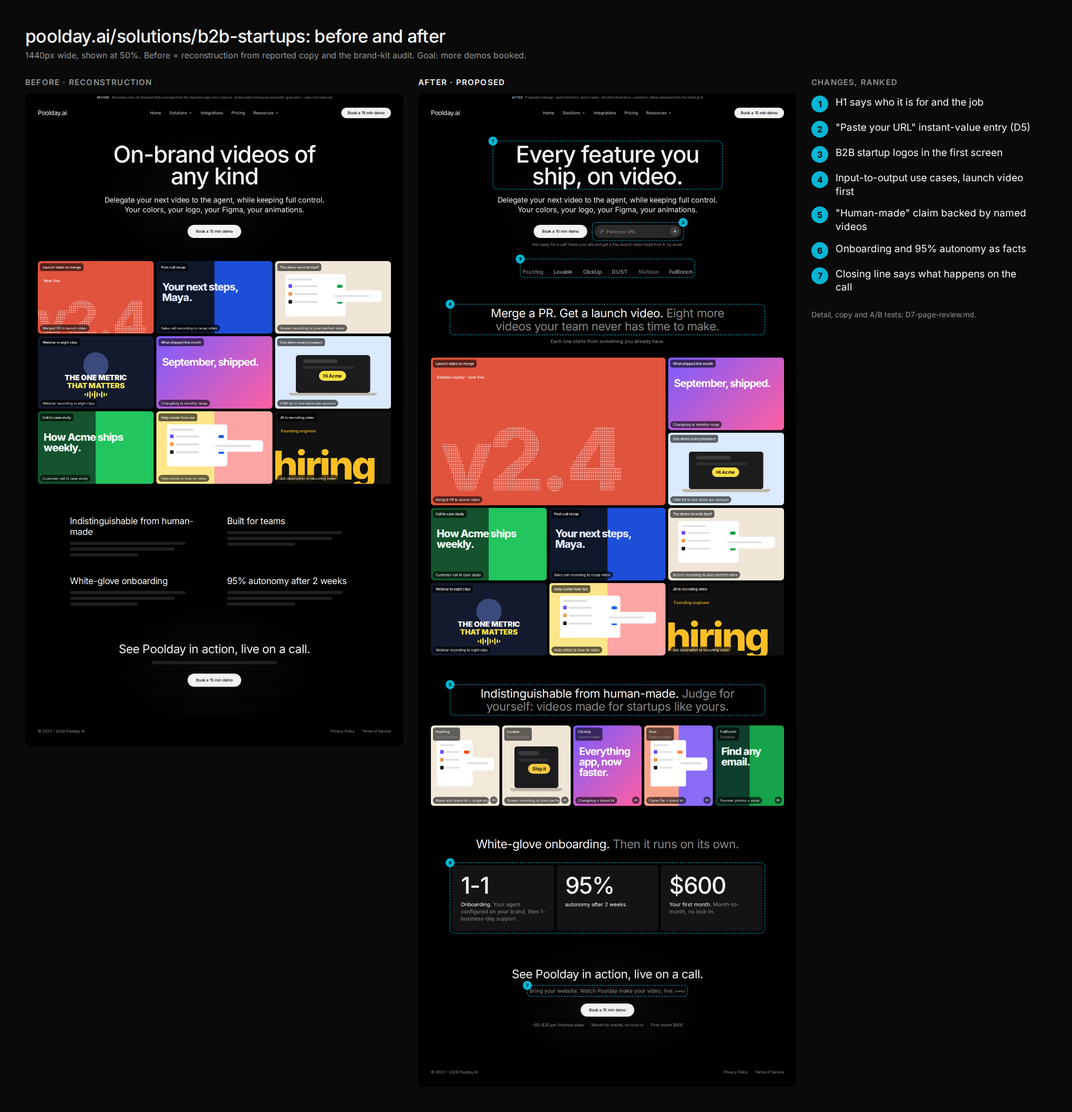
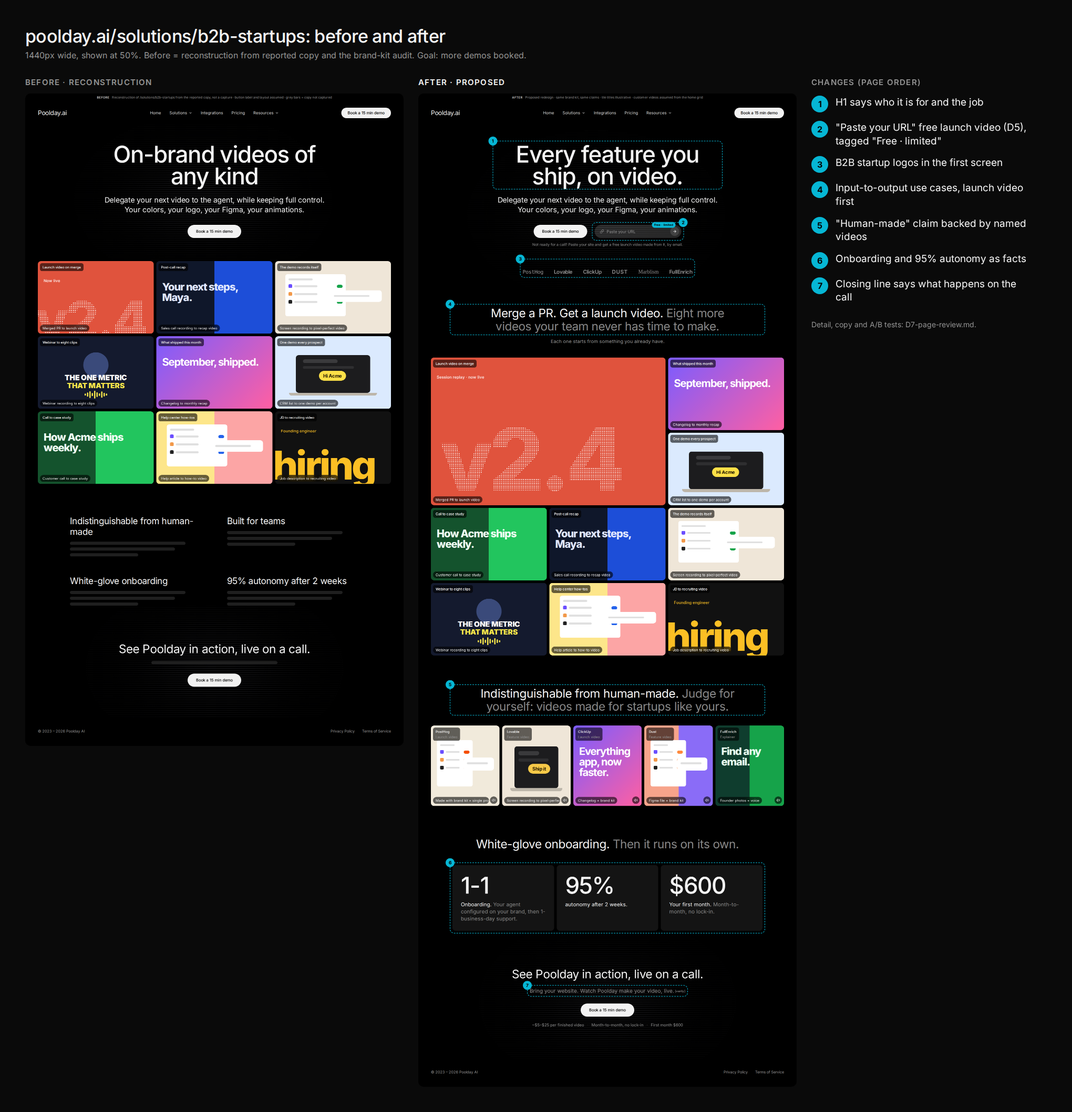
D7 v2: simpler pricing, cleaner home hero, free badge on b2b; log method
Claude-Session: https://claude.ai/code/session_014hQZTHyaVN7FtPgL5qa4Zv

Changed region(s): [[0.7412, 0.0935, 0.9574, 0.3118]]

diff --git a/deliverables/D7-pages/pages/pricing-after.html b/deliverables/D7-pages/pages/pricing-after.html
@@ -1,8 +1,8 @@
 <!doctype html><html lang="en"><head><meta charset="utf-8"><meta name="viewport" content="width=device-width, initial-scale=1"><title>Poolday pricing, after</title>
 <link rel="stylesheet" href="../../design/poolday-brand-kit/tokens.css"><link rel="stylesheet" href="../../design/poolday-brand-kit/components/bundle.css"><link rel="stylesheet" href="../src/d7.css"></head><body>
-<div class="d7-label"><b>After</b>Proposed redesign · same structure, prices and plan contents · [verify] = not confirmed from the live site</div><header class="pd-nav"><a class="pd-wordmark" href="#">Poolday.ai</a><nav class="pd-nav-links" aria-label="Main"><a class="pd-nav-link" href="#">Home</a><button class="pd-nav-link">Solutions<svg class="pd-icon" width="14" height="14" viewBox="0 0 24 24" fill="none" stroke="currentColor" stroke-width="2" stroke-linecap="round" stroke-linejoin="round" aria-hidden="true"><path d="m6 9 6 6 6-6"/></svg></button><a class="pd-nav-link" href="#">Integrations</a><a class="pd-nav-link" href="#">Pricing</a><button class="pd-nav-link">Resources<svg class="pd-icon" width="14" height="14" viewBox="0 0 24 24" fill="none" stroke="currentColor" stroke-width="2" stroke-linecap="round" stroke-linejoin="round" aria-hidden="true"><path d="m6 9 6 6 6-6"/></svg></button></nav><a class="pd-btn pd-btn-md" href="#">Book a 15 min demo</a></header><section class="pd-hero d7-hero" style="padding-bottom:64px"><canvas class="pd-halftone" data-cx="0.5" data-cy="0.3" data-rx="520"></canvas><div class="pd-hero-inner"><h1 class="pd-display">Simple pricing.</h1>
-<p class="pricing-lede" data-callout="1">Pay for finished videos, not seats. <span>~$5–$25 per finished video.</span><span class="verify">[verify]</span></p></div></section>
-<div class="plans">
+<div class="d7-label"><b>After</b>Proposed redesign · same structure, prices and plan contents · [verify] = not confirmed from the live site</div><header class="pd-nav"><a class="pd-wordmark" href="#">Poolday.ai</a><nav class="pd-nav-links" aria-label="Main"><a class="pd-nav-link" href="#">Home</a><button class="pd-nav-link">Solutions<svg class="pd-icon" width="14" height="14" viewBox="0 0 24 24" fill="none" stroke="currentColor" stroke-width="2" stroke-linecap="round" stroke-linejoin="round" aria-hidden="true"><path d="m6 9 6 6 6-6"/></svg></button><a class="pd-nav-link" href="#">Integrations</a><a class="pd-nav-link" href="#">Pricing</a><button class="pd-nav-link">Resources<svg class="pd-icon" width="14" height="14" viewBox="0 0 24 24" fill="none" stroke="currentColor" stroke-width="2" stroke-linecap="round" stroke-linejoin="round" aria-hidden="true"><path d="m6 9 6 6 6-6"/></svg></button></nav><a class="pd-btn pd-btn-md" href="#">Book a 15 min demo</a></header><section class="pd-hero d7-hero" style="padding-top:56px;padding-bottom:44px"><canvas class="pd-halftone" data-cx="0.5" data-cy="0.3" data-rx="520"></canvas><div class="pd-hero-inner"><h1 class="pd-display">Simple pricing.</h1>
+<p class="pricing-lede" style="margin-top:22px" data-callout="1">Pay for finished videos, not seats. <span>~$5–$25 per finished video.</span><span class="verify">[verify]</span></p></div></section>
+<div class="plans tight">
 <div class="plan"><h3>Business</h3><p class="persona-s" data-callout="3" data-side="right">For a startup team of 1–3 that ships every week.</p><div class="price">$1,250<small>/mo</small></div><p class="yield-s" data-callout="2" data-side="right">≈ 50–250 finished videos a month<span class="verify">[verify]</span></p><ul><li><svg class="pd-icon" width="16" height="16" viewBox="0 0 24 24" fill="none" stroke="currentColor" stroke-width="2" stroke-linecap="round" stroke-linejoin="round" aria-hidden="true"><path d="M20 6 9 17l-5-5"/></svg><span>$1,250 of credits</span></li><li><svg class="pd-icon" width="16" height="16" viewBox="0 0 24 24" fill="none" stroke="currentColor" stroke-width="2" stroke-linecap="round" stroke-linejoin="round" aria-hidden="true"><path d="M20 6 9 17l-5-5"/></svg><span>1-1 onboarding</span></li><li><svg class="pd-icon" width="16" height="16" viewBox="0 0 24 24" fill="none" stroke="currentColor" stroke-width="2" stroke-linecap="round" stroke-linejoin="round" aria-hidden="true"><path d="M20 6 9 17l-5-5"/></svg><span>1-business-day support</span></li><li><svg class="pd-icon" width="16" height="16" viewBox="0 0 24 24" fill="none" stroke="currentColor" stroke-width="2" stroke-linecap="round" stroke-linejoin="round" aria-hidden="true"><path d="M20 6 9 17l-5-5"/></svg><span>Extra credits at 2× the included rate</span></li></ul><p class="first" data-callout="4" data-side="right">First month $600 <span class="pilot-s">· a pilot, no lock-in</span></p><p class="cfg">Book a call to get your agent configured</p><a class="pd-btn pd-btn-lg" href="#">Book a 15 min demo</a></div>
 <div class="plan"><h3>Enterprise</h3><p class="persona-s">For teams that need SSO, an MSA and API access.</p><div class="price"><span class="from">from</span>$2,500<small>/mo</small></div><p class="yield-s">≈ 100–500+ finished videos a month<span class="verify">[verify]</span></p><ul><li class="li-head">Everything in Business, plus</li><li><svg class="pd-icon" width="16" height="16" viewBox="0 0 24 24" fill="none" stroke="currentColor" stroke-width="2" stroke-linecap="round" stroke-linejoin="round" aria-hidden="true"><path d="M20 6 9 17l-5-5"/></svg><span>SSO</span></li><li><svg class="pd-icon" width="16" height="16" viewBox="0 0 24 24" fill="none" stroke="currentColor" stroke-width="2" stroke-linecap="round" stroke-linejoin="round" aria-hidden="true"><path d="M20 6 9 17l-5-5"/></svg><span>MSA</span></li><li><svg class="pd-icon" width="16" height="16" viewBox="0 0 24 24" fill="none" stroke="currentColor" stroke-width="2" stroke-linecap="round" stroke-linejoin="round" aria-hidden="true"><path d="M20 6 9 17l-5-5"/></svg><span>A private Slack</span></li><li><svg class="pd-icon" width="16" height="16" viewBox="0 0 24 24" fill="none" stroke="currentColor" stroke-width="2" stroke-linecap="round" stroke-linejoin="round" aria-hidden="true"><path d="M20 6 9 17l-5-5"/></svg><span>API access</span></li><li><svg class="pd-icon" width="16" height="16" viewBox="0 0 24 24" fill="none" stroke="currentColor" stroke-width="2" stroke-linecap="round" stroke-linejoin="round" aria-hidden="true"><path d="M20 6 9 17l-5-5"/></svg><span>Unlimited users</span></li></ul><p class="first">First month $600 <span class="pilot-s">· a pilot, no lock-in</span></p><p class="cfg">Book a call to get your agent configured</p><a class="pd-btn pd-btn-lg" href="#">Book a 15 min demo</a></div>
 </div>

diff --git a/deliverables/D7-pages/src/render.js b/deliverables/D7-pages/src/render.js
@@ -12,7 +12,7 @@ fs.mkdirSync(R, { recursive: true }); fs.mkdirSync(CMP, { recursive: true });
 
 const LEGEND = {
   home: ['"Watch a 2-min build" for visitors not ready to call', 'A demo CTA right after the proof grid', '"Superintelligence" defined in one line', 'Customers and investors split', 'What happens in the 15 minutes'],
-  b2b: ['H1 says who it is for and the job', '"Paste your URL" instant-value entry (D5)', 'B2B startup logos in the first screen', 'Input-to-output use cases, launch video first', '"Human-made" claim backed by named videos', 'Onboarding and 95% autonomy as facts', 'Closing line says what happens on the call'],
+  b2b: ['H1 says who it is for and the job', '"Paste your URL" free launch video (D5), tagged "Free · limited"', 'B2B startup logos in the first screen', 'Input-to-output use cases, launch video first', '"Human-made" claim backed by named videos', 'Onboarding and 95% autonomy as facts', 'Closing line says what happens on the call'],
   pricing: ['One-line lede: price per finished video', 'Credits translated into videos per month', 'A persona caption per plan', 'The $600 first month framed as a pilot, no lock-in', 'Customer logos under the plans', 'Short comparison vs agency, freelancer, in-house', 'One-line procurement note', 'Four-question FAQ'],
 };
 const TITLE = { home: 'poolday.ai — Home', b2b: 'poolday.ai/solutions/b2b-startups', pricing: 'poolday.ai/pricing' };
@@ -52,7 +52,7 @@ h1{margin:0 0 6px;font-size:34px;font-weight:500;letter-spacing:-.02em}.sub{colo
 <h1>${TITLE[p]}: before and after${mode === 'fold' ? ' (above the fold)' : ''}</h1><div class="sub">1440px wide, shown at 50%. Before = reconstruction from reported copy and the brand-kit audit. Goal: more demos booked.</div>
 <div class="row"><div class="col"><h2>Before · reconstruction</h2><img src="file://${R}/${p}-before${suf}.png"></div>
 <div class="col after"><h2>After · proposed</h2><img src="file://${R}/${p}-after-annotated${suf}.png"></div>
-<div class="leg"><h2>Changes, ranked</h2>${LEGEND[p].map((t, i) => `<div class="it"><span class="n">${i + 1}</span><span>${t}</span></div>`).join('')}<p class="note">Detail, copy and A/B tests: D7-page-review.md.</p></div></div></body></html>`;
+<div class="leg"><h2>Changes (page order)</h2>${LEGEND[p].map((t, i) => `<div class="it"><span class="n">${i + 1}</span><span>${t}</span></div>`).join('')}<p class="note">Detail, copy and A/B tests: D7-page-review.md.</p></div></div></body></html>`;
       const f = path.join(CMP, `.${p}${suf}.html`);
       fs.writeFileSync(f, html);
       const cp = await ctx.newPage();

diff --git a/deliverables/D7-pages/src/build.js b/deliverables/D7-pages/src/build.js
@@ -195,9 +195,9 @@ function pricingBefore() {
 function pricingAfter() {
   const C = (cells, cls = '') => cells.map((c, i) => `<div class="${i === 0 ? 'rh' : ''}${i === 1 ? ' pd' : ''} ${cls}">${c}</div>`).join('');
   return head('Poolday pricing, after', 'Proposed redesign · same structure, prices and plan contents · [verify] = not confirmed from the live site', 'After') + nav() +
-    `<section class="pd-hero d7-hero" style="padding-bottom:64px"><canvas class="pd-halftone" data-cx="0.5" data-cy="0.3" data-rx="520"></canvas><div class="pd-hero-inner"><h1 class="pd-display">Simple pricing.</h1>
-<p class="pricing-lede"${co(1)}>Pay for finished videos, not seats. <span>~$5–$25 per finished video.</span>${V}</p></div></section>
-<div class="plans">
+    `<section class="pd-hero d7-hero" style="padding-top:56px;padding-bottom:44px"><canvas class="pd-halftone" data-cx="0.5" data-cy="0.3" data-rx="520"></canvas><div class="pd-hero-inner"><h1 class="pd-display">Simple pricing.</h1>
+<p class="pricing-lede" style="margin-top:22px"${co(1)}>Pay for finished videos, not seats. <span>~$5–$25 per finished video.</span>${V}</p></div></section>
+<div class="plans tight">
 <div class="plan"><h3>Business</h3><p class="persona-s"${co(3, 'right')}>For a startup team of 1–3 that ships every week.</p><div class="price">$1,250<small>/mo</small></div><p class="yield-s"${co(2, 'right')}>≈ 50–250 finished videos a month${V}</p><ul>${li('$1,250 of credits')}${li('1-1 onboarding')}${li('1-business-day support')}${li('Extra credits at 2× the included rate')}</ul><p class="first"${co(4, 'right')}>First month $600 <span class="pilot-s">· a pilot, no lock-in</span></p><p class="cfg">Book a call to get your agent configured</p><a class="pd-btn pd-btn-lg" href="#">Book a 15 min demo</a></div>
 <div class="plan"><h3>Enterprise</h3><p class="persona-s">For teams that need SSO, an MSA and API access.</p><div class="price"><span class="from">from</span>$2,500<small>/mo</small></div><p class="yield-s">≈ 100–500+ finished videos a month${V}</p><ul><li class="li-head">Everything in Business, plus</li>${li('SSO')}${li('MSA')}${li('A private Slack')}${li('API access')}${li('Unlimited users')}</ul><p class="first">First month $600 <span class="pilot-s">· a pilot, no lock-in</span></p><p class="cfg">Book a call to get your agent configured</p><a class="pd-btn pd-btn-lg" href="#">Book a 15 min demo</a></div>
 </div>

diff --git a/deliverables/D7-pages/src/d7.css b/deliverables/D7-pages/src/d7.css
@@ -164,8 +164,6 @@ a { color: inherit; }
 .pd-glass-chip.snd { flex: none; width: 28px; height: 28px; padding: 0; justify-content: center; }
 
 /* v2 revisions */
-.pd-hero.d7-hero .d7-hero-gap { height: 0; }
-.d7-hero .pd-hero-inner > .pd-btn + .pd-section-title, .d7-hero .cta-row + .pd-section-title { margin-top: 64px; }
 .pricing-lede { margin-top: 28px; font-size: 22px; line-height: 1.3; letter-spacing: -0.01em; color: var(--ink); }
 .pricing-lede span { color: var(--ink-quiet); }
 .plan .persona-s { margin-top: 6px; font-size: 14px; line-height: 1.4; color: var(--ink-muted); }
@@ -175,3 +173,9 @@ a { color: inherit; }
 .proc-line b { font-weight: 500; color: var(--ink); }
 .url-field { position: relative; }
 .url-field .badge { position: absolute; top: -11px; right: 22px; padding: 3px 9px; border-radius: var(--radius-pill); background: var(--brand-cyan); color: var(--on-brand-cyan); font-size: 11px; line-height: 16px; font-weight: 600; letter-spacing: 0.01em; }
+.plans.tight .plan { padding: 30px 36px; }
+.plans.tight .plan .price { margin-top: 20px; }
+.plans.tight .plan ul { margin-top: 20px; gap: 9px; }
+.plans.tight .plan .first { margin-top: 22px; }
+.plans.tight .plan .pd-btn { margin-top: 20px; }
+.proc-line { text-wrap: balance; }

diff --git a/deliverables/D7-pages/D7-page-review.md b/deliverables/D7-pages/D7-page-review.md
@@ -2,33 +2,35 @@
 
 poolday.ai was blocked from the build environment, so each BEFORE is a **reconstruction** from the brand kit's audit, the page text and the reported copy. It is not a capture. Grey bars stand for copy we didn't capture, and tile titles are illustrative. Every AFTER keeps Poolday's facts word for word. A **[verify]** tag marks anything we couldn't confirm.
 
-Visuals: `compare/<page>-compare.png` (full page) and `compare/<page>-compare-fold.png` (first screen). Numbered callouts on the AFTER match the numbers below. Changes are ranked by impact on demos booked × effort. **Primary metric for every test: demo bookings per unique visitor** (completed calendar bookings, not clicks).
+Visuals: `compare/<page>-compare.png` (full page) and `compare/<page>-compare-fold.png` (first screen). Numbered callouts on the AFTER match the # column below (callouts follow page order; table rows are by impact on demos booked × effort). **Primary metric for every test: demo bookings per unique visitor** (completed calendar bookings, not clicks).
 
-## Pricing (highest intent, biggest gap)
+## Pricing (highest intent)
+
+Principle (after user review): keep the original's simplicity. The first screen is still H1 + two plan cards side by side; every addition is one line. Heavier material sits below the fold.
 
 | # | Problem → change (exact copy) | Why it books more demos | A/B test (guardrail) |
 |---|---|---|---|
-| 2 | "Your first month at $600" is a line of small print. → A named band above the plans: **"Start with the $600 pilot month. Month-to-month, no lock-in."** with four items: *Your agent, configured · 1-1 onboarding · Credits included [verify] · Then decide: stay on Business or Enterprise, or stop.* | The risk is lowered before the list price is seen. The call becomes "set up my pilot", not "hear a pitch". | Band vs no band. Guardrail: pilot → paid conversion at day 45 (the band must not attract low-intent pilots). |
-| 3 | "$1,250 of credits" means nothing to a buyer. → **"$1,250 of credits ≈ 50–250 finished videos a month"**. Enterprise: **"≈ 100–500+ finished videos a month"**. | This answers the first question on every call ("how much video do I get?"), so the buyer arrives ready to book, not ready to email. | Videos line on vs off. Guardrail: share of sales calls where scope is disputed. Range = $1,250 ÷ ~$5–$25 per video [verify the per-video figure and that Enterprise credits equal the price]. |
-| 1 | The H1 "Simple pricing" has nothing under it. → **"Simple pricing."** + lede **"Pay for finished videos, not seats. ~$5–$25 per finished video."** | It sets the unit (per video) before the $1,250 anchor, so the price reads cheap per output. | Lede vs none. Guardrail: bounce rate on /pricing. |
-| 6 | No reference point, so $1,250 gets compared with a $30 SaaS seat. → **"Poolday vs the usual options. Priced per finished video, not per hour."** Columns: Poolday / Agency / Freelancer / In-house editor. Rows: how you pay, commitment, your brand, volume, changes. The Poolday cells reuse site lines ("One prompt, infinite outputs", "Point to edit. Only that changes."). | It moves the anchor from software to production spend, where $1,250 a month is small. | Table vs none. Guardrail: scroll depth to the plans (the table sits below them). The competitor cells are qualitative on purpose. Add costs only if sourced. |
-| 4 | Both plans read alike. → Persona lines: **"For a startup marketing team of 1–3 that ships every week."** / **"For teams that need SSO, an MSA, API access and more seats."** | Visitors pick themselves into a plan and book, instead of stalling on the choice. | On vs off. Guardrail: Enterprise share of bookings (must not drop). |
-| 5 | "Extra credits at 2× the included rate" reads like a penalty. → **"Need more in a busy month? Top up anytime. Extra credits cost 2× the included rate, so if you top up often, the next plan is cheaper."** | It is honest and turns the fear of a surprise bill into a reason to size up. | Copy swap. Guardrail: support tickets about billing. |
-| 7 | Nothing for procurement. → **"Ready for procurement. On Enterprise."** SSO · MSA · Private Slack · API access · Unlimited users, plus "Security documentation and data handling: available on request [verify]". | This unblocks the larger accounts that otherwise stop before booking. | Strip on vs off. Guardrail: Enterprise bookings. Publish no security claim until it is confirmed. |
-| 8, 9 | No logos and no FAQ on the page. → A **"Teams on Poolday"** logo row under the plans, plus six FAQs: credit, the $600 month, running out, cancelling, needing a designer, rights to the videos [verify]. | Proof and objection handling sit where the decision is made. | Test together as one "proof pack". Guardrail: CTA click → booking completion. |
+| 2 | "$1,250 of credits" means nothing to a buyer. → One line under each price: **"≈ 50–250 finished videos a month"** / **"≈ 100–500+ finished videos a month"** [verify]. | Answers "how much video do I get?" before the call, so the buyer arrives ready to book, not ready to email. | Line on vs off. Guardrail: share of sales calls where scope is disputed. Range = $1,250 ÷ ~$5–$25 per video [verify the figure and that Enterprise credits equal the price]. |
+| 4 | "Your first month at $600" is small print. → Same spot, one line: **"First month $600 · a pilot, no lock-in"**. | Names the low-risk first step without adding a block; the call becomes "set up my pilot". | Copy swap. Guardrail: pilot → paid conversion at day 45. |
+| 1 | The H1 has nothing under it. → **"Simple pricing."** + one line **"Pay for finished videos, not seats. ~$5–$25 per finished video."** [verify] | Sets the unit (per video) before the $1,250 anchor, so the price reads cheap per output. | Lede vs none. Guardrail: bounce rate on /pricing. |
+| 3 | Both plans read alike. → Small caption under the plan name: **"For a startup team of 1–3 that ships every week."** / **"For teams that need SSO, an MSA and API access."** | Visitors pick themselves into a plan instead of stalling on the choice. | On vs off. Guardrail: Enterprise share of bookings. |
+| 5 | No proof on the page. → **"Teams on Poolday"** logo row under the plans. | Proof where the decision is made. | On vs off. Guardrail: CTA click → booking completion. |
+| 6 | $1,250 gets compared with a $30 SaaS seat. → Below the fold: **"Poolday vs the usual options. Priced per finished video."** Three rows only (how you pay, commitment, your brand) against agency / freelancer / in-house editor. | Moves the anchor to production spend, where $1,250 a month is small. | Table vs none. Guardrail: plan-card CTA clicks. Competitor cells stay qualitative; add costs only if sourced. |
+| 7, 8 | Nothing for procurement or pre-call questions. → One line: **"Ready for procurement on Enterprise: SSO · MSA · private Slack · API access · unlimited users. Security documentation on request"** [verify], then a four-question FAQ (credit, the $600 month, running out, needing a designer). | Unblocks larger accounts and answers the questions that otherwise become an email instead of a booking. | Test as one "below-fold pack". Guardrail: booking completion. |
 
-Trade-off: the pilot band pushes the prices about 130px lower in the first screen. If test 2 loses, move the band under the plans.
+Dropped after review: the big pilot band (it made the page feel less simple and pushed the prices down) and the long top-up paragraph (the card keeps Poolday's original "Extra credits at 2× the included rate"; the honest wording lives in the FAQ).
 
 ## Home
 
+The hero stays as clean as the original: after user review, the price facts under the hero CTA were removed (noise). They stay in the closing section, where the original has them.
+
 | # | Problem → change (exact copy) | Why it books more demos | A/B test (guardrail) |
 |---|---|---|---|
-| 1 | The price facts only show at the very bottom. → Under the hero CTA: **"~$5–$25 per finished video · Month-to-month, no lock-in · First month $600"**. | These are the strongest lines on the site, and they answer "can I afford this?" before the visitor decides to click. | Microline on vs off. Guardrail: share of bookings from companies under 10 people (price visibility may bring in small, low-fit teams). [verify the figure is on the live home page] |
-| 2 | Demo is the only path, and visitors not ready to call just leave. → Secondary text link **"Watch a 2-min build"** next to the CTA and again at the close. It plays a real run, ending on "Book a 15 min demo". | It keeps the not-ready visitors, and the video pre-sells the call. | Link on vs off. Guardrail: hero CTA click rate must not fall more than 10%. Watch it: of the ideas here, this one is the most likely to eat into CTA clicks. |
-| 3 | No CTA between the 18 videos and the page's end, which is where interest peaks. → After the grid: **"Your brand, in videos like these. It learns your brand once."** + **Book a 15 min demo**. | It asks at the moment of peak interest. | On vs off. Guardrail: scroll depth to Meet Poolday. |
-| 6 | "See Poolday in action, live on a call." doesn't say what happens on the call. → Three cards: **Minute 1: "You share your website." · Minutes 2–10: "It builds your brand kit live and drafts a first video." [verify] · Minutes 10–15: "You leave with a plan and your $600 first month."** | It lowers the fear of a sales call. The visitor knows they will leave with something. | On vs off. Guardrail: demo no-show rate. Only ship this if sales can deliver the live build. |
-| 4 | "Superintelligence" is never defined. → **"Meet Poolday. Not a tool you operate: an agent that plans, makes and fixes the whole video."** | It earns the headline and sets Poolday apart from editors (Descript, Kapwing), which justifies a call over a free trial. | Copy swap. Guardrail: time on page. |
-| 5 | Investors sit among customers under "Trusted by leaders". → Customer logos only, then a quiet line: **"Backed by Daphni, LocalGlobe"**. | It protects credibility with sharp buyers, even if the booking effect is small. | Ship it without a test (low risk). Track bookings before and after. |
+| 1 | Demo is the only path, and visitors not ready to call just leave. → Secondary text link **"Watch a 2-min build"** next to the CTA and again at the close. It plays a real run, ending on "Book a 15 min demo". | It keeps the not-ready visitors, and the video pre-sells the call. | Link on vs off. Guardrail: hero CTA click rate must not fall more than 10%. Watch it: of the ideas here, this one is the most likely to eat into CTA clicks. |
+| 2 | No CTA between the 18 videos and the page's end, which is where interest peaks. → After the grid: **"Your brand, in videos like these. It learns your brand once."** + **Book a 15 min demo**. | It asks at the moment of peak interest. | On vs off. Guardrail: scroll depth to Meet Poolday. |
+| 5 | "See Poolday in action, live on a call." doesn't say what happens on the call. → Three cards: **Minute 1: "You share your website." · Minutes 2–10: "It builds your brand kit live and drafts a first video." [verify] · Minutes 10–15: "You leave with a plan and your $600 first month."** | It lowers the fear of a sales call. The visitor knows they will leave with something. | On vs off. Guardrail: demo no-show rate. Only ship this if sales can deliver the live build. |
+| 3 | "Superintelligence" is never defined. → **"Meet Poolday. Not a tool you operate: an agent that plans, makes and fixes the whole video."** | It earns the headline and sets Poolday apart from editors (Descript, Kapwing), which justifies a call over a free trial. | Copy swap. Guardrail: time on page. |
+| 4 | Investors sit among customers under "Trusted by leaders". → Customer logos only, then a quiet line: **"Backed by Daphni, LocalGlobe"**. | It protects credibility with sharp buyers, even if the booking effect is small. | Ship it without a test (low risk). Track bookings before and after. |
 | — | 18 autoplaying videos plus four 1080p videos make a heavy load. → Poster frames, lazy-load everything below the first row. | Faster mobile loads mean more visitors reach the CTA. | Measure LCP; test bookings on mobile only. |
 
 ## /solutions/b2b-startups
@@ -36,7 +38,7 @@ Trade-off: the pilot band pushes the prices about 130px lower in the first scree
 | # | Problem → change (exact copy) | Why it books more demos | A/B test (guardrail) |
 |---|---|---|---|
 | 1 | The H1 "On-brand videos of any kind" says what the product is, not who it's for. → **"Every feature you ship, on video."** Poolday's own subhead stays below it. | It passes the 5-second test for a B2B startup: it is for us, and it matches our weekly release rhythm. | H1 swap. Guardrail: bounce rate. |
-| 2 | Same all-or-nothing demo gate as home. → Secondary field **"Paste your URL"** + **"Not ready for a call? Paste your site and get a free launch video made from it, by email."** (the D5 growth idea). The video ends with the booking offer. | Visitors get value before any call. A lead who has seen their own brand in a Poolday video books at a far higher rate. | Field on vs off, qualified domains only. Primary: bookings within 14 days. Guardrails: credit cost per booked demo (D5 estimate ~$380 [est.]), and hero CTA clicks. |
+| 2 | Same all-or-nothing demo gate as home. → Secondary field **"Paste your URL"** + **"Not ready for a call? Paste your site and get a free launch video made from it, by email."** (the D5 growth idea), tagged with a tiny brand-cyan pill **"Free · limited"**, the only accent on the page (the kit reserves cyan as a signal colour). The video ends with the booking offer. | Visitors get value before any call. A lead who has seen their own brand in a Poolday video books at a far higher rate. | Field on vs off, qualified domains only. Primary: bookings within 14 days. Guardrails: credit cost per booked demo (D5 estimate ~$380 [est.]), and hero CTA clicks. |
 | 4 | The nine use cases are listed as bare names. → Section title **"Merge a PR. Get a launch video. Eight more videos your team never has time to make."**, with the launch video tile first and large. Each tile keeps its name and gains a recipe chip, e.g. **"Changelog to monthly recap"**, **"CRM list to one demo per account"**, **"Job description to recruiting video"**. | Tying input to output makes the effort look tiny ("I already have that"), and the most frequent startup job leads. | Recipe chips + order vs original. Guardrail: clicks into each use case. |
 | 3, 5 | "Indistinguishable from human-made" is a claim with nothing under it, and the page shows no B2B proof. → Logos in the first screen (PostHog, Lovable, ClickUp, Dust, Marblism, FullEnrich). The claim becomes **"Indistinguishable from human-made. Judge for yourself: videos made for startups like yours."** over five named customer videos. | Proof from peers, placed where the claim is made. | Test as one proof pack. Guardrail: page load time. [verify the customer videos can be shown on this page] |
 | 6 | "White-glove onboarding" and "95% autonomy after 2 weeks" are headings with body text under them. → Three stat cards: **1-1** onboarding · **95%** autonomy after 2 weeks (Poolday's wording kept) · **$600** your first month. | It turns the time objection ("how much of MY time?") into facts. | On vs off. Guardrail: scroll depth. |
@@ -53,4 +55,4 @@ Trade-off: the pilot band pushes the prices about 130px lower in the first scree
 
 ## Unverified [verify]
 
-~$5–$25 per finished video (appears on home?) · the videos-per-month ranges built on it · Enterprise credits = price · credits included in the $600 month · whether the demo includes a live brand-kit build · security documentation · rights to the output · whether the customer videos can be shown on b2b · every BEFORE layout detail (reconstruction). Screenshot the three live pages to close these before any test.
+~$5–$25 per finished video (on the live home page?) · the videos-per-month ranges built on it · Enterprise credits = price · credits included in the $600 month · whether the demo includes a live brand-kit build · security documentation · rights to the output · whether the customer videos can be shown on b2b · every BEFORE layout detail (reconstruction). Screenshot the three live pages to close these before any test.
